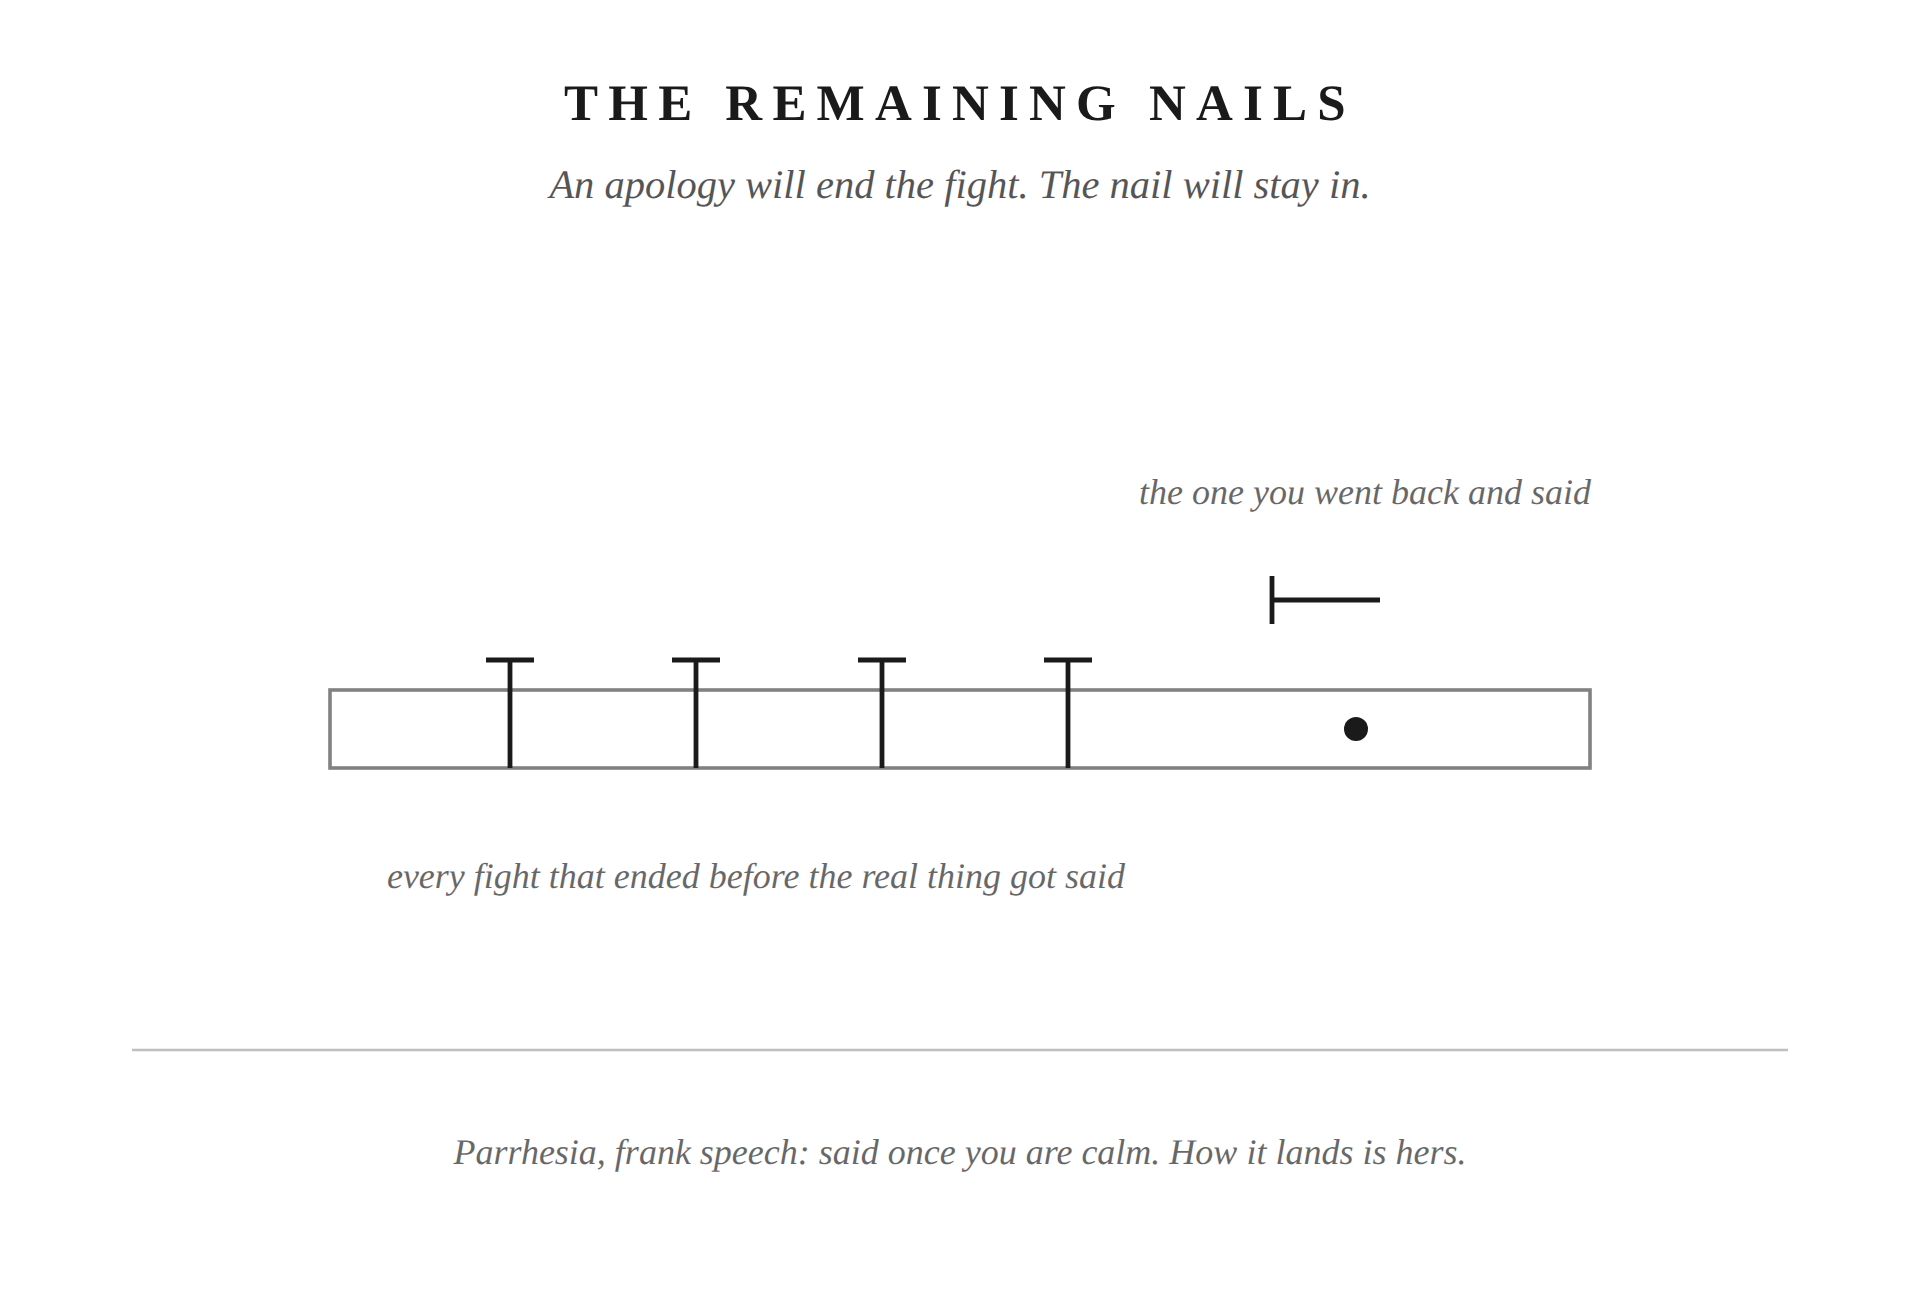
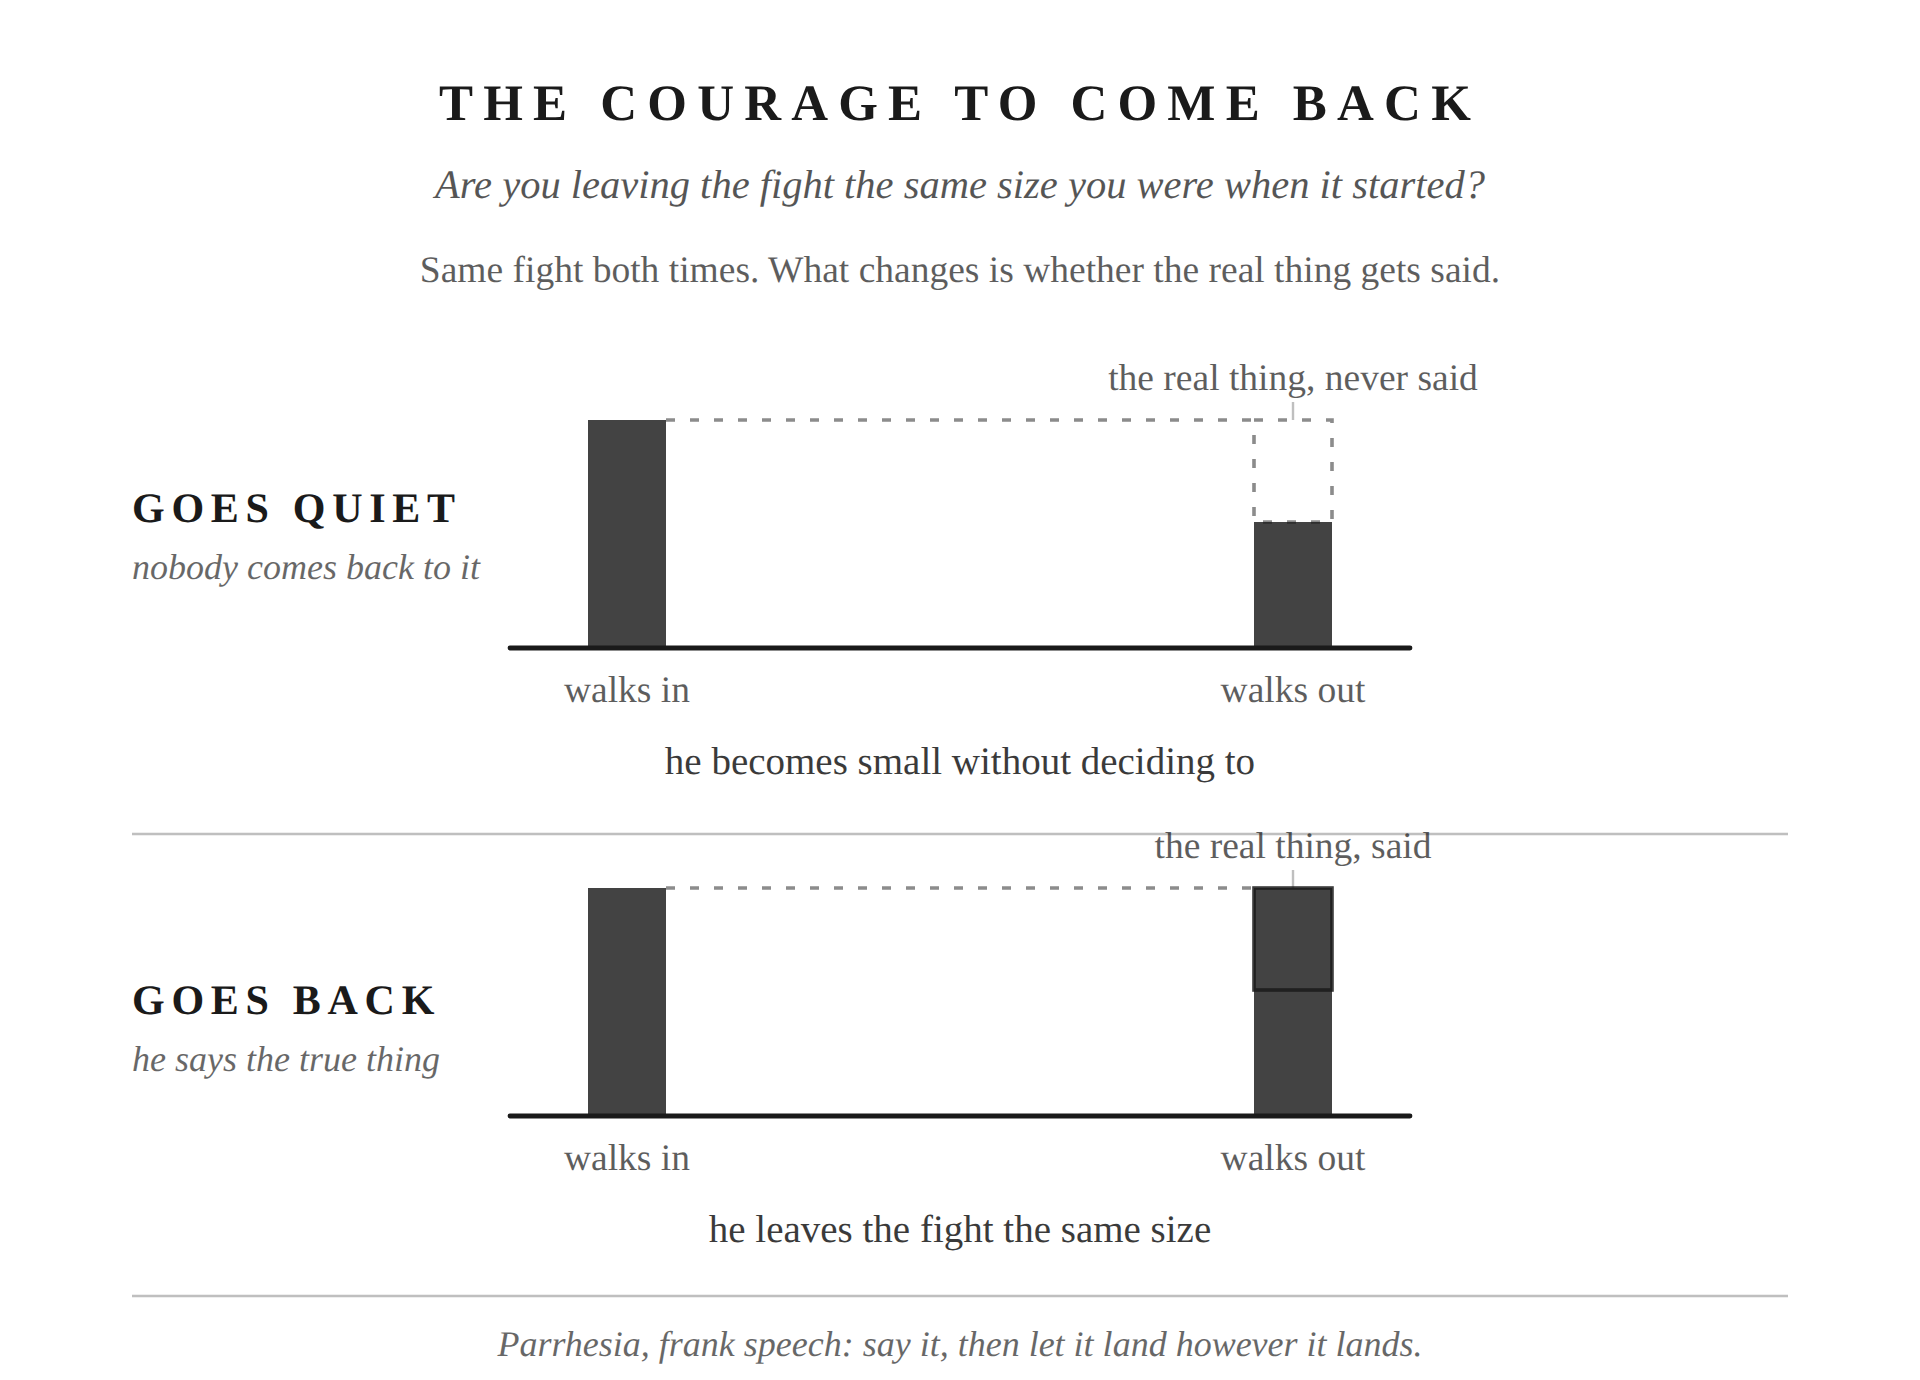
Round 4: Ch5 drawn from concept B, checked (one expected title WARN, flagged for the author)
Claude-Session: https://claude.ai/code/session_01AGHGLRftgBTeqLnoAYhBbF

diff --git a/runs/ch05/plate-notes.md b/runs/ch05/plate-notes.md
@@ -167,3 +167,121 @@ lying out, a hole under it. That is the chapter.
 2. **Parrhesia stays on the plate,** now glossed inside the closing line. Round
    one raised the same question about the display row; the question survives the
    redraw in smaller form.
+
+---
+
+## Round 4, draft from concept B (2026-09-20 22:30)
+
+Concept B, picked by the Reader Panel (`runs/ch05/plate-pick.md`), drawn to
+finish. Rounds 1 to 3 drew Ch04's nails; that drawing is superseded, not
+revised.
+
+**What the plate shows.** The same man's height, drawn walking into a fight and
+walking out of it, twice. A dashed line runs from the top of the walk-in bar
+across to the walk-out bar: the size he was when it started. In the top row the
+walk-out bar falls short of that line, and the missing piece is drawn as a
+dashed empty box labelled *the real thing, never said*. In the bottom row the
+same box is solid and outlined, labelled *the real thing, said*, and the bar
+reaches the line.
+
+**The carrier.** The height he loses *is* the thing he did not say. One shape,
+drawn empty once and filled once; nothing else differs between the two rows.
+That is the whole argument, and it is why the plate answers the Panel's flagged
+misreading (*the short bar means fighting costs you*): the orienting line under
+the subtitle says the fight is the same both times, so the only variable left in
+the picture is the saying. The cost is the silence.
+
+**Every phrase and its source.**
+
+| On the plate | Source |
+|---|---|
+| THE COURAGE TO COME BACK | `refined.md` beat heading, verbatim |
+| Are you leaving the fight the same size you were when it started? | `refined.md`, "Becoming small", verbatim |
+| Same fight both times. What changes is whether the real thing gets said. | distillation, "The fight ends before the real thing gets said"; the "both times" framing is the Ch10 plate's house move |
+| GOES QUIET / nobody comes back to it | distillation Challenge, "once it goes quiet"; `refined.md` 5.5, "comes back to the unresolved conversation" |
+| GOES BACK / he says the true thing | `refined.md` 5.5, "He says the true thing." |
+| the real thing, never said / the real thing, said | distillation, "the real thing gets said" |
+| walks in / walks out | the drawing's own deictics, two words each |
+| he becomes small without deciding to | distillation Conversation sentence, "becomes small without deciding to" |
+| he leaves the fight the same size | `refined.md`, "leaving the fight the same size" |
+| Parrhesia, frank speech: say it, then let it land however it lands. | `refined.md` 5.5, "frank speech" and "he lets it land however it lands" |
+
+No numbers, no quotation, no em-dash, no Stoic term ungossed: *parrhesia* is
+glossed inline in the closing line and set at caption size, not display size.
+The checker's grounded row passes: every run of three or more words is the
+chapter's.
+
+**The title diverges from the distillation's Mechanism line, on purpose, for the
+author to rule on.** The Mechanism line is **The Remaining Nails**, which is
+Chapter 4's picture in words, and there is no nail anywhere in this concept. A
+man who reads the old title over this drawing lands back on the anger chapter.
+Rather than invent a title, the plate takes Chapter 5's own beat heading, **the
+courage to come back**, verbatim. `plate_check.py` reports this as a title WARN
+and that WARN is expected. It is not the Designer's to resolve: either the
+distillation's Mechanism line changes to the chapter's own heading, or the
+author rules that the plate carries the Ch04 title anyway. Flagged in the
+concepts note, carried by the Panel, now standing on the finished plate.
+
+**Style decisions and what they were matched to.** Canvas 640 wide, Georgia with
+a serif fallback, `#1a1a1a` via `currentColor` on white, title at y=40 with
+.20em letter-spacing, italic subtitle at y=66, hairline rules at .28 opacity,
+bars at .82 fill, dashed strokes at 1.2 / `3 5`: all from `runs/ch10/plate.svg`
+and the nine plates in `design/plates/`. The two-row structure with a left label
+column, an orienting line under the subtitle and a closing line under a rule is
+Ch10's layout exactly, because Ch10 is the same argument shape: one object, same
+pressure, twice. Height is 460, not 430, which is within the existing range
+(`design/plates/` runs 360 to 540). One divergence worth naming: the in-drawing
+annotations are set roman, not italic, so that italic stays commentary only and
+the caption cap holds at four with two labels. Ch10 sets everything italic and
+runs at twelve against a cap of four.
+
+**Still no `design/plates/style.md`.** The written style does not exist; the
+proposal from the concepts round stands and still needs the author to ratify it,
+not the Designer to write it.
+
+**Checker output, verbatim:**
+
+```
+$ python3 scripts/plate_check.py runs/ch05/plate.svg --chapter 5
+runs/ch05/plate.svg
+  [ ok ] charset     valid UTF-8, no mojibake
+  [ ok ] geometry    no margin or collision rows
+  [ ok ] anchor-attr anchors set in classes or inline styles only
+  [ ok ] em-dash     none
+  [ ok ] digits      none
+  [ ok ] canvas      640x460
+  [WARN] title       title 'THE COURAGE TO COME BACK' / aria-label 'The courage to come back: the same fight twice, once with the real thing left unsaid and once with it said' vs Mechanism 'The Remaining Nails' (differs; inbox #065)
+  [ ok ] grounded    every run of three or more words is the chapter's
+  [ ok ] captions    4 italic lines against a cap of 4 (2 labels + subtitle + closing line)
+  [ ok ] alignment   12 centred texts on the axis or a shared column; 11 drawing blocks centred or mirrored
+  [ ok ] ink         no rendered ink inside the 40px margin bands (dark px {'left': 0, 'right': 0, 'top': 0, 'bottom': 0})
+```
+
+An earlier state of this draft was not clean, and the rows are kept because they
+are what set the wording of two lines:
+
+```
+  [FAIL] geometry    MARGIN  y= 94.0 'The same fight both times. What ch' 35..605; MARGIN  y=452.0 'Parrhesia, frank speech: say the t' 36..604
+```
+
+The orienting line lost its opening article and the closing line lost "the true
+thing", which the row-two gloss already says. Both were cut to fit rather than
+shrunk.
+
+**What the render showed** (`runs/ch05/pdf/plate.png`). The two rows read as one
+comparison at phone size, and the eye goes to the short bar first, then to the
+dashed box above it, then to the label. The solid outline on the row-two block
+makes a visible seam where the missing piece was restored, which is the intended
+reading and the one thing to check with fresh eyes: it must read as *the piece
+is here now*, not as two stacked boxes. The long empty span between walk-in and
+walk-out was left as drawn; it reads as the length of the fight.
+
+**For the author to rule on.**
+
+1. **The title, above.** The Mechanism line and the plate disagree, and only he
+   can settle which moves.
+2. **"walks in" and "walks out" are the plate's own words,** not the chapter's,
+   at two words each and below the grounded row's three-word floor. They are
+   deictic labels for the drawing rather than claims. If he wants nothing on a
+   plate the chapter does not say, they come off and the drawing loses its
+   clearest cue that these are the same man twice.
